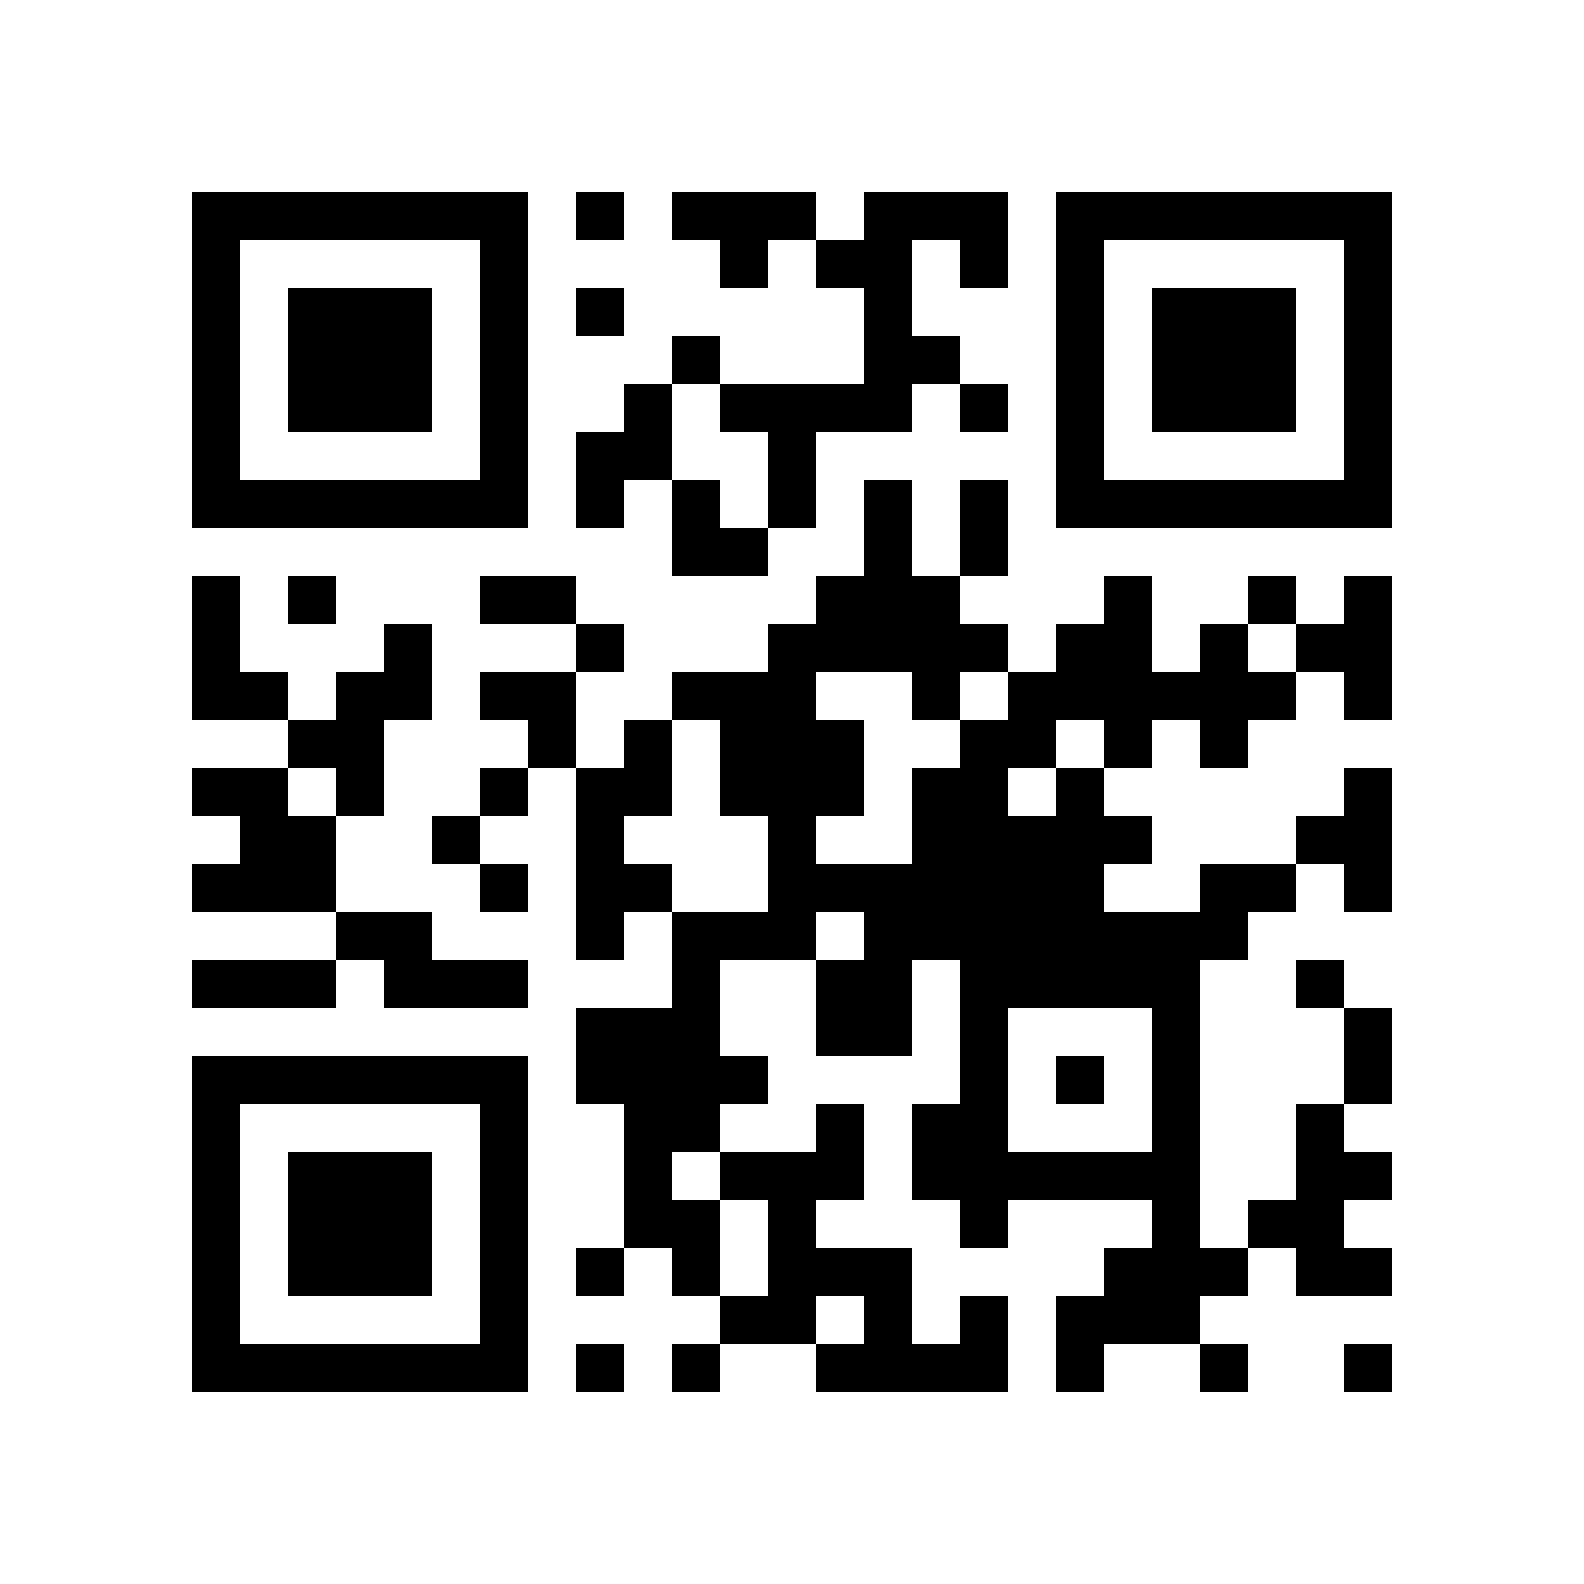
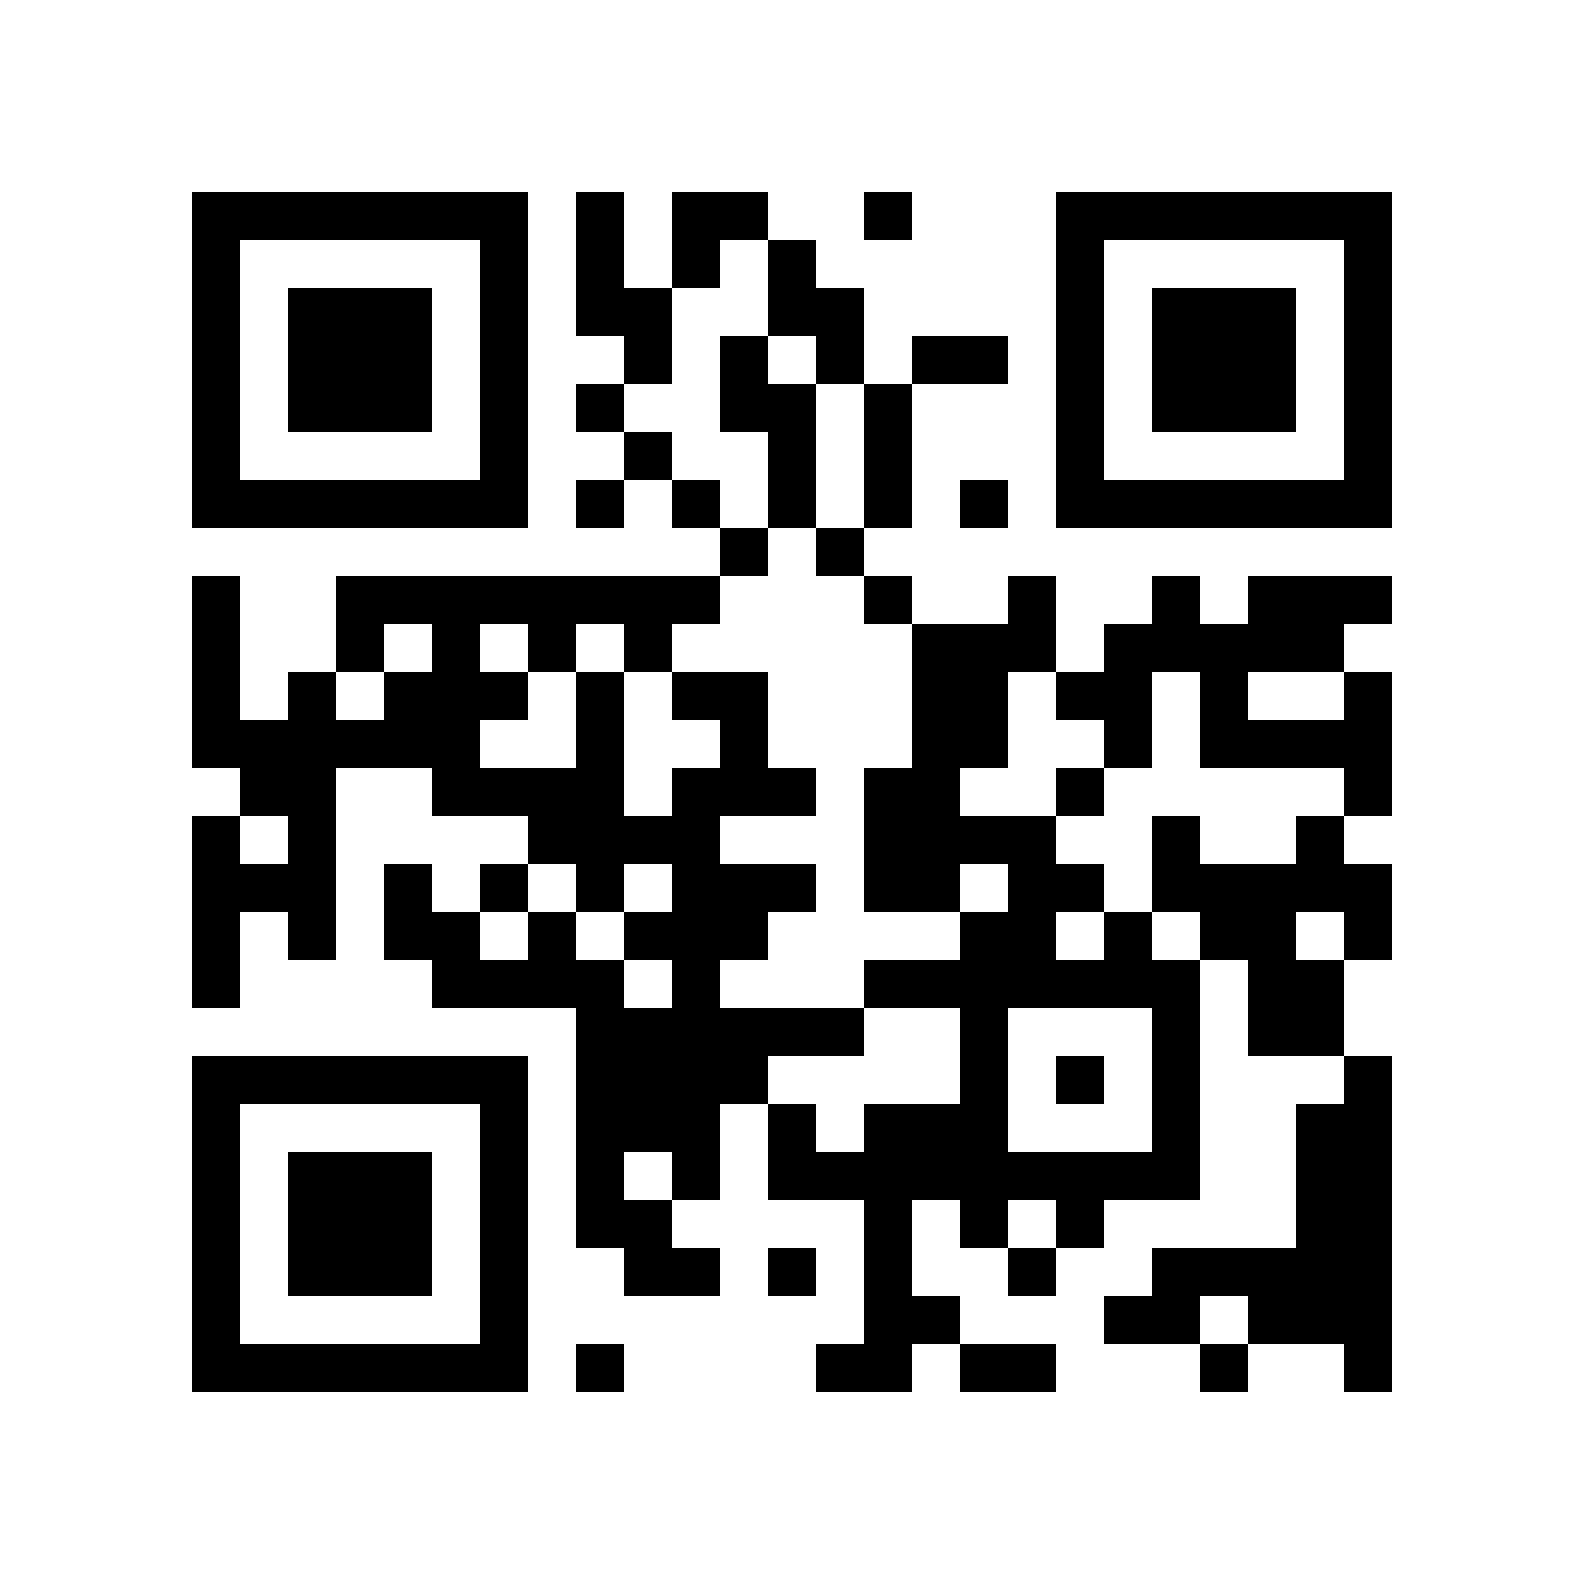
正式ドメインを www.tas9.net に戻す（tas9.net の証明書が発行されず警告が出るため・TGS 後に再挑戦）

Changed region(s): [[0.1237, 0.1237, 0.8971, 0.8971]]

diff --git a/index.html b/index.html
@@ -235,11 +235,11 @@ p.para{margin-top:10px}
     company: '+9',
     job_title: 'モーションデザイナー / AIナレッジデザイナー / 専門学校講師',
     email: 'takahashi@tas9.net',
-    notes: 'https://tas9.net/ — Motion Designer / AI Knowledge Designer / Lecturer'
+    notes: 'https://www.tas9.net/ — Motion Designer / AI Knowledge Designer / Lecturer'
   };
   var url = 'intent:#Intent;action=android.intent.action.INSERT_OR_EDIT;type=vnd.android.cursor.item/contact';
   for (var key in fields) url += ';S.' + key + '=' + encodeURIComponent(fields[key]);
-  url += ';S.browser_fallback_url=' + encodeURIComponent('https://tas9.net/tas9.vcf') + ';end';
+  url += ';S.browser_fallback_url=' + encodeURIComponent('https://www.tas9.net/tas9.vcf') + ';end';
   a.setAttribute('href', url);
 })();
 </script>

diff --git a/print/make_label.py b/print/make_label.py
@@ -1,6 +1,6 @@
 """ガジェット裏の QR シール（34×34mm・300dpi）と、ロック画面用の大きい QR・型押し用 SVG を作る。
 実行: py print/make_label.py（このフォルダ直下から）。必要: qrcode[pil]。
-URL は名刺ページの正式アドレス（2026-09-15 から www 無し）。www 版のタグ・印刷物も転送で有効。
+URL は名刺ページの正式アドレス（www）。
 """
 from pathlib import Path
 
@@ -9,7 +9,7 @@ from PIL import Image, ImageDraw, ImageFont
 from qrcode.image.svg import SvgPathImage
 
 HERE = Path(__file__).resolve().parent
-URL = "https://tas9.net/"
+URL = "https://www.tas9.net/"
 DPI = 300
 MM = DPI / 25.4
 
@@ -29,7 +29,7 @@ def main() -> None:
     label.paste(img, ((size - img.width) // 2, 6))
     d = ImageDraw.Draw(label)
     font = ImageFont.truetype("C:/Windows/Fonts/arial.ttf", 26)
-    text = "tas9.net"
+    text = "www.tas9.net"
     d.text(((size - d.textlength(text, font=font)) / 2, img.height + 6), text, fill="black", font=font)
     label.save(HERE / "label_34mm_300dpi.png", dpi=(DPI, DPI))
     print("label", label.size, "modules", q.modules_count)

diff --git a/print/make_card.py b/print/make_card.py
@@ -21,7 +21,7 @@ from reportlab.pdfgen import canvas
 from svglib.svglib import svg2rlg
 
 HERE = Path(__file__).resolve().parent
-URL = "https://tas9.net/"
+URL = "https://www.tas9.net/"
 INK = HexColor("#1d1d1f")
 SUB = HexColor("#6e6e73")
 CARD_W, CARD_H = 91 * mm, 55 * mm
@@ -49,7 +49,7 @@ def build_card() -> Drawing:
     d.add(String(8 * mm, 14.5 * mm, "Tasuku Takahashi", fontName="YuGothM", fontSize=7.5, fillColor=SUB))
 
     # URL: 左下
-    d.add(String(8 * mm, 7.5 * mm, "tas9.net", fontName="YuGothM", fontSize=7.5, fillColor=SUB))
+    d.add(String(8 * mm, 7.5 * mm, "www.tas9.net", fontName="YuGothM", fontSize=7.5, fillColor=SUB))
 
     # QR: 右側・26mm 角（静穏域 2 モジュール込み）・上下中央。
     # qrcode ライブラリの「1本のパス」SVG を使う（モジュール間に継ぎ目が出ない）。
